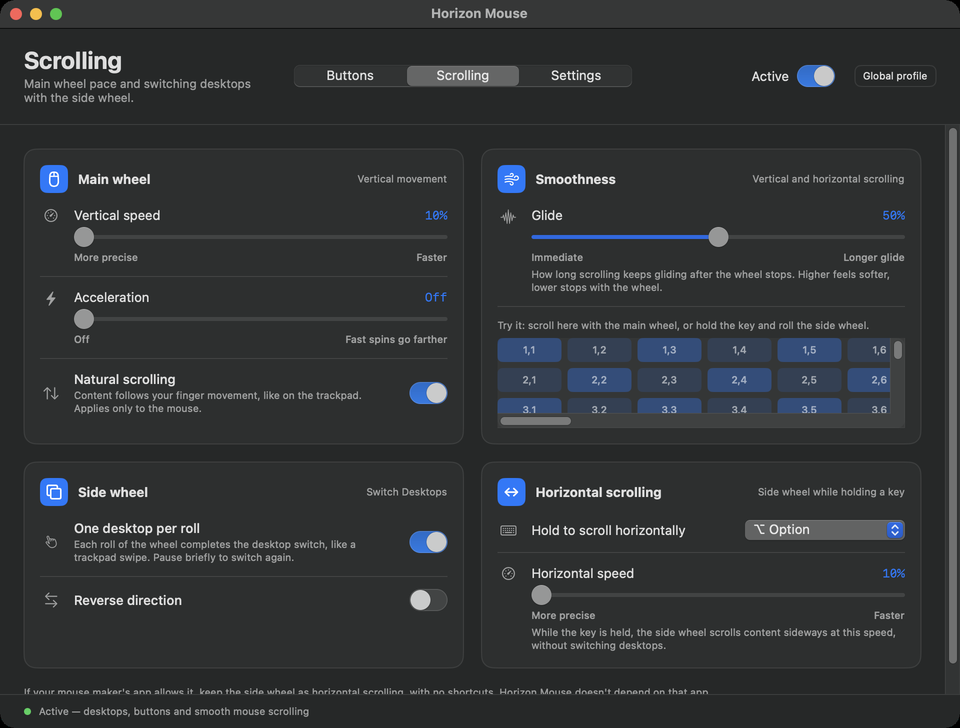
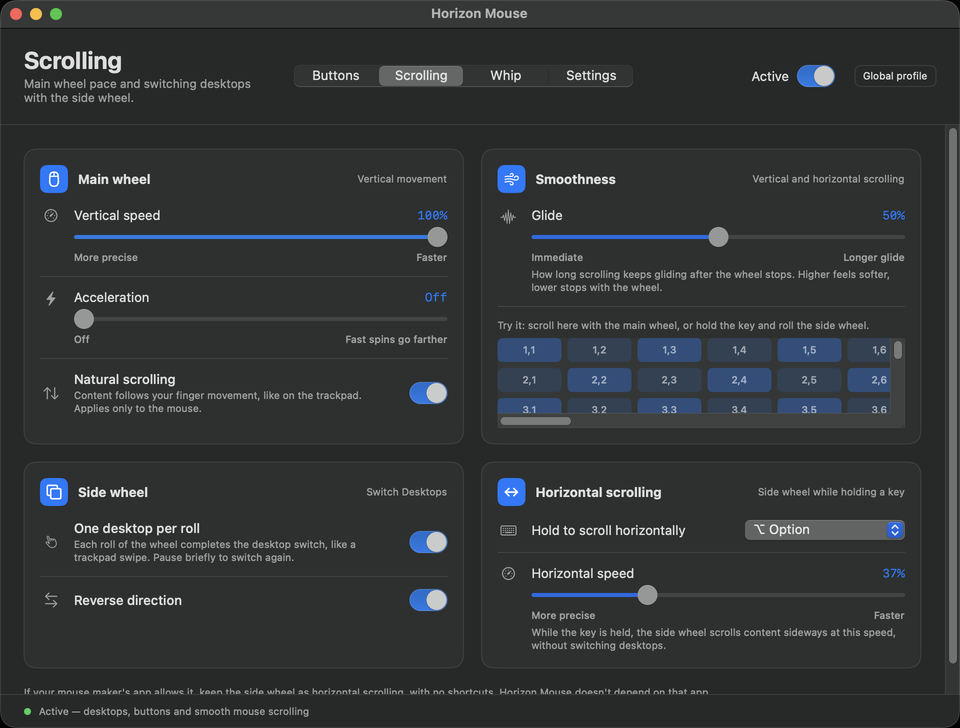
docs: document whip mode and refresh the tab screenshots
Adds a Whip mode section to the README with a screenshot and a GIF, lists
the new button action, and updates the Buttons, Scrolling and Settings
screenshots so their tab bar shows the new Whip tab.

diff --git a/README.md b/README.md
@@ -16,6 +16,7 @@ A small macOS menu bar app that gives any wheel mouse button gestures and smooth
 - **Button gestures**: click, double click, hold and drag on each extra button, each with its own action.
 - **Desktop switching**: switch Spaces with a side wheel or by dragging a button, animated like a trackpad swipe.
 - **Smooth scrolling**: separate vertical and horizontal speeds, plus natural scrolling for the mouse only.
+- **Whip mode** (for fun, off by default): a whip hangs from the pointer, swings with the mouse and cracks on click. Pick one of six models and its color, and optionally have each crack run a macro in the apps you choose.
 - **Private**: no account, no server, no telemetry, no dependencies. Available in 11 languages: English, Português, Español, Français, Deutsch, Italiano, 日本語, 한국어, 简体中文, Русский and Türkçe.
 
 It works with any mouse, regardless of brand, and never touches the trackpad, the left and right buttons, or other apps' synthetic events.
@@ -55,7 +56,7 @@ or open **System Settings → Privacy & Security** and click **Open Anyway**.
 
 On the **Buttons** tab, pick a control (front side, back side, middle, or the button above the wheel) and set an action for each gesture: **Click**, **Double click**, **Hold** (0.45 s) and **Drag**.
 
-Actions: mouse default, Back (⌘[), Forward (⌘]), a recorded shortcut, Mission Control, Show Desktop, Switch Desktops (Drag only), or nothing.
+Actions: mouse default, Back (⌘[), Forward (⌘]), a recorded shortcut, Mission Control, Show Desktop, Switch Desktops (Drag only), Toggle whip mode, or nothing.
 
 - Gestures left on *mouse default* pass the original event through untouched.
 - With a double click configured, a single click waits 0.3 s to tell them apart.
@@ -69,6 +70,22 @@ Actions: mouse default, Back (⌘[), Forward (⌘]), a recorded shortcut, Missio
 - Holding a chosen key (⌥ by default) turns the side wheel into horizontal scrolling at the **Horizontal speed** (default 10%).
 - On the **Scroll** tab, **Vertical speed** (100% = system speed, default 10%), **Acceleration** (off by default; fast spins travel farther), **Smoothness** (how long scrolling glides after the wheel stops) and **Natural scrolling** apply to the mouse only. A grid on the tab lets you try vertical and horizontal scrolling with your settings.
 
+### Whip mode
+
+![Whip tab](docs/media/whip.png)
+
+![Whip mode in action](docs/media/whip.gif)
+
+Turn on **Whip mode** on the **Whip** tab (or map **Toggle whip mode** to a mouse button). A whip hangs from the pointer, which stays visible: a rigid handle you hold upright, and a limp lash that swings and lags with the mouse. A click sweeps the handle and cracks the lash, with sparks and a sound.
+
+- **Model**: Bullwhip, Stockwhip (long handle), Signal whip (short), Snake whip (no handle, heavy), Riding crop (stiff) or Neon. Each has its own handle, length, stiffness and tip.
+- **Color**: a color wheel, eight presets and a brightness slider. The preview and the model tiles take the color as you pick it.
+- **Apps**: the whip only speaks and runs its macro in the apps you list (Claude, Antigravity and common terminals by default). Use **Add app…** to add more.
+- **Messages**: while one of those apps is in front, short bubbles such as "Faster!" and "Keep going!" pop up, in the language of the app.
+- **Macro on crack**: a recorded shortcut and/or a text to type (with an optional Return), sent to the app in front. Choose **Every click**, or hold ⌥, ⇧, ⌃ or ⌘ while you click to run it. The text is typed first, then the shortcut. It never runs in Horizon Mouse itself, and two cracks within 0.6 s run it once.
+
+Try the macro with a short text first: it types into whatever app is in front.
+
 ### Settings
 
 **Run in the background** keeps the app active when the window closes, **Show icon in the menu bar** toggles the menu bar item, and **Open at login** uses macOS Login Items. The app language follows the system and can be overridden in **App language**.
@@ -76,7 +93,7 @@ Actions: mouse default, Back (⌘[), Forward (⌘]), a recorded shortcut, Missio
 ## Privacy and trust
 
 - **No network access, no telemetry, no accounts.** Nothing leaves your Mac.
-- **Accessibility** is used only to filter mouse wheel and button events. **Input Monitoring** is optional and only lets the app see mouse buttons that send keyboard shortcuts; keystrokes are never recorded or stored.
+- **Accessibility** is used only to filter mouse wheel and button events. **Input Monitoring** is optional and only lets the app see mouse buttons that send keyboard shortcuts; keystrokes are never recorded or stored. The optional whip macro only sends the text or shortcut you set.
 - No driver or kernel extension. Quit the app and everything returns to normal.
 - Small, auditable Swift/C source (MIT) with automated tests and CI. Releases attach `SHA256SUMS.txt`; verify with `shasum -a 256 -c SHA256SUMS.txt`. See [SECURITY.md](SECURITY.md) to verify the signature or report a vulnerability.
 
@@ -111,7 +128,7 @@ log stream --predicate 'subsystem == "io.github.luishscosta.horizonmouse"'
 
 ## Project layout
 
-- `Sources/HorizonMouseApp`: SwiftUI interface, menu bar, login item.
+- `Sources/HorizonMouseApp`: SwiftUI interface, menu bar, login item, whip overlay.
 - `Sources/MouseKit`: event filtering, button gestures, smoothing, Space switching.
 - `Sources/MouseBridge`: C bridge to the private Dock gesture and HID APIs.
 - `Resources/*.lproj`: translations (English strings are the keys).

diff --git a/CHANGELOG.md b/CHANGELOG.md
@@ -4,6 +4,9 @@ All notable changes are documented here. Format based on [Keep a Changelog](http
 
 ## [Unreleased]
 
+### Added
+- **Whip mode**, a fun option: a whip hangs from the pointer, swings with the mouse and cracks on click. The new **Whip** tab picks one of six models and the color (wheel, presets, brightness), and sets a macro (shortcut and/or text, optionally with a modifier held) that runs on each crack in the apps you choose. A new button action, **Toggle whip mode**, turns it on and off.
+
 ## [0.3.9] - 2026-11-18
 
 ### Fixed
